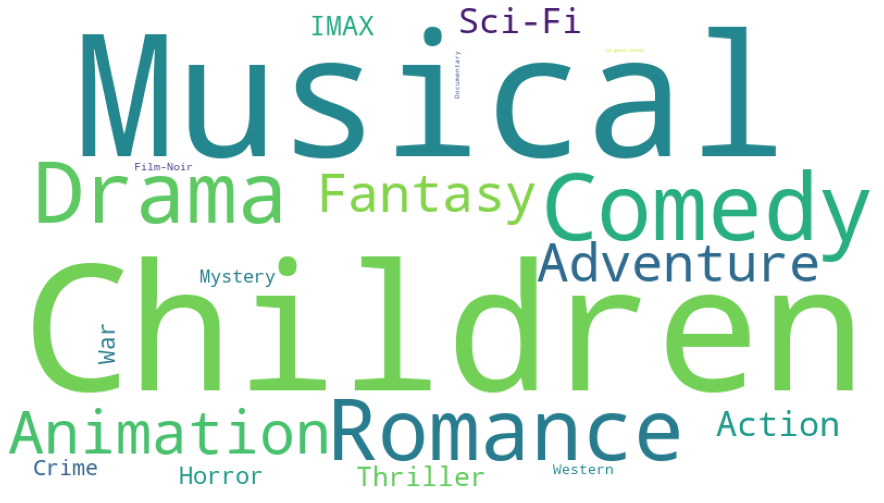
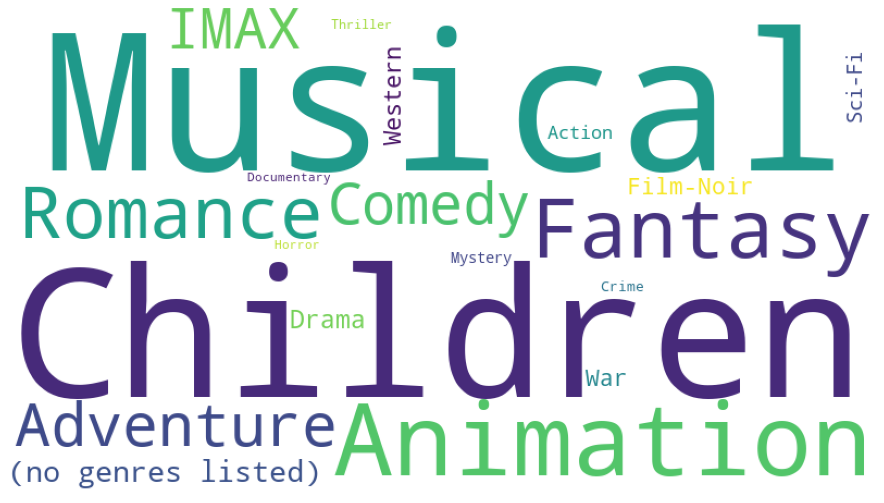
deploy: 0bfbcadae92ec199999e02b96ba536cd05f81799

diff --git a/advertising/machine learning/python/data science/2021/03/14/floc-experiment.html b/advertising/machine learning/python/data science/2021/03/14/floc-experiment.html
@@ -172,7 +172,7 @@ window.onload = wrap_img;
 
 <p>Third-party cookies have (since 1994) been a key enabler of the commercial Internet and <strong>fine-grained digital ad targeting</strong></p>
 
-<p>They helped achieve <strong>unprecedented audience segmentation and attribution</strong> - helping to connect marketing tactics with results in ways that were virtually impossible in the most traditional forms of media.</p>
+<p>They have helped achieve <strong>unprecedented audience segmentation and attribution</strong> - helping to connect marketing tactics with results in ways that were virtually impossible in the most traditional forms of media.</p>
 
 <p>To bring users more transparency and better consent management, most browsers are ending support for third-party cookies.</p>
 
@@ -300,12 +300,13 @@ window.onload = wrap_img;
 <a class="anchor" href="#defining-a-limited-number-of-clusters-for-demonstration-purposes" aria-hidden="true"><span class="octicon octicon-link"></span></a>Defining a limited number of clusters for demonstration purposes</h2>
 <div class="language-python highlighter-rouge"><div class="highlight"><pre class="highlight"><code><span class="n">transformed_df</span><span class="p">[</span><span class="s">"cluster"</span><span class="p">]</span> <span class="o">=</span> <span class="n">pd</span><span class="o">.</span><span class="n">cut</span><span class="p">(</span><span class="n">transformed_df</span><span class="p">[</span><span class="s">"hash"</span><span class="p">],</span> <span class="n">bins</span><span class="o">=</span><span class="mi">5</span><span class="p">,</span> <span class="n">labels</span><span class="o">=</span><span class="p">[</span><span class="s">"1"</span><span class="p">,</span> <span class="s">"2"</span><span class="p">,</span> <span class="s">"3"</span><span class="p">,</span> <span class="s">"4"</span><span class="p">,</span> <span class="s">"5"</span><span class="p">])</span>
 <span class="n">results</span> <span class="o">=</span> <span class="n">transformed_df</span><span class="o">.</span><span class="n">drop</span><span class="p">(</span><span class="n">columns</span><span class="o">=</span><span class="s">'hash'</span><span class="p">)</span><span class="o">.</span><span class="n">groupby</span><span class="p">(</span><span class="s">'cluster'</span><span class="p">)</span><span class="o">.</span><span class="n">mean</span><span class="p">()</span>
+<span class="n">weighted_results</span> <span class="o">=</span> <span class="n">results</span> <span class="o">/</span> <span class="n">results</span><span class="o">.</span><span class="n">mean</span><span class="p">()</span>
 </code></pre></div></div>
 
 <h2 id="visualizing-the-clusters">
 <a class="anchor" href="#visualizing-the-clusters" aria-hidden="true"><span class="octicon octicon-link"></span></a>Visualizing the clusters</h2>
 <div class="language-python highlighter-rouge"><div class="highlight"><pre class="highlight"><code><span class="k">def</span> <span class="nf">plot_cluster_wordcloud</span><span class="p">(</span><span class="n">cluster_name</span><span class="p">):</span>
-    <span class="n">cluster_text</span> <span class="o">=</span> <span class="n">results</span><span class="o">.</span><span class="n">loc</span><span class="p">[</span><span class="n">results</span><span class="o">.</span><span class="n">index</span> <span class="o">==</span> <span class="nb">str</span><span class="p">(</span><span class="n">cluster_name</span><span class="p">)]</span><span class="o">.</span><span class="n">to_dict</span><span class="p">(</span><span class="n">orient</span><span class="o">=</span><span class="s">'records'</span><span class="p">)[</span><span class="mi">0</span><span class="p">]</span>
+    <span class="n">cluster_text</span> <span class="o">=</span> <span class="n">weighted_results</span><span class="o">.</span><span class="n">loc</span><span class="p">[</span><span class="n">weighted_results</span><span class="o">.</span><span class="n">index</span> <span class="o">==</span> <span class="nb">str</span><span class="p">(</span><span class="n">cluster_name</span><span class="p">)]</span><span class="o">.</span><span class="n">to_dict</span><span class="p">(</span><span class="n">orient</span><span class="o">=</span><span class="s">'records'</span><span class="p">)[</span><span class="mi">0</span><span class="p">]</span>
     <span class="n">wordcloud</span> <span class="o">=</span> <span class="n">WordCloud</span><span class="p">(</span><span class="n">width</span><span class="o">=</span><span class="mi">800</span><span class="p">,</span> <span class="n">height</span><span class="o">=</span><span class="mi">450</span><span class="p">,</span> <span class="n">background_color</span><span class="o">=</span><span class="s">"white"</span><span class="p">)</span><span class="o">.</span><span class="n">generate_from_frequencies</span><span class="p">(</span><span class="n">cluster_text</span><span class="p">)</span>
     <span class="n">plt</span><span class="o">.</span><span class="n">figure</span><span class="p">(</span><span class="n">figsize</span><span class="o">=</span><span class="p">(</span><span class="mi">16</span><span class="p">,</span><span class="mi">9</span><span class="p">))</span>
     <span class="n">plt</span><span class="o">.</span><span class="n">imshow</span><span class="p">(</span><span class="n">wordcloud</span><span class="p">)</span>
